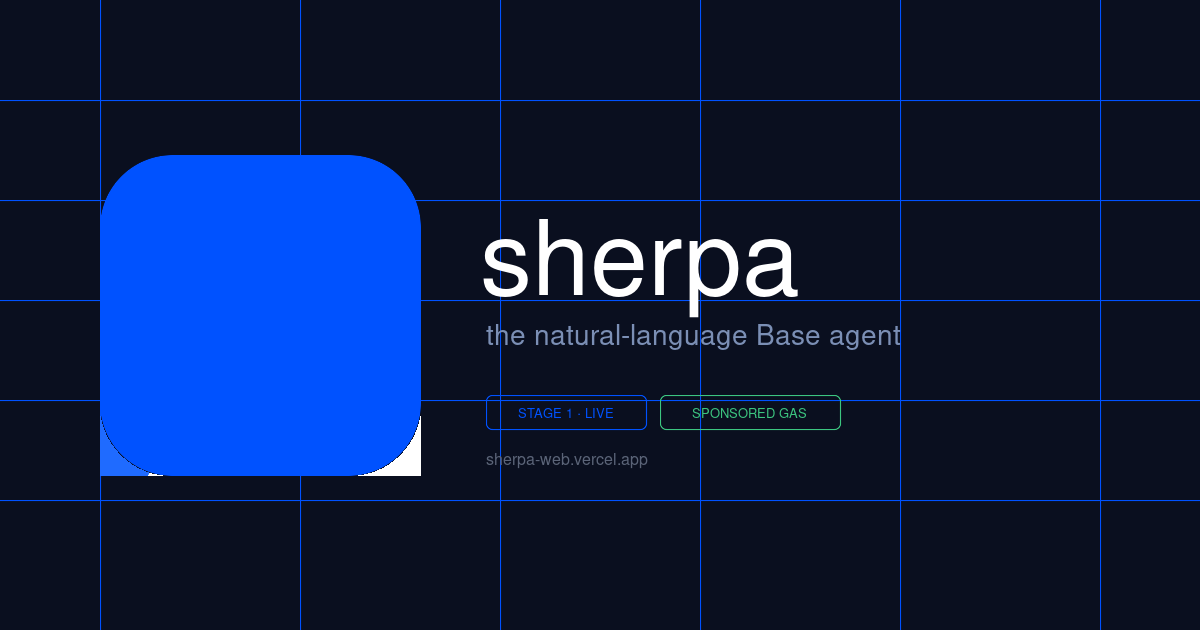
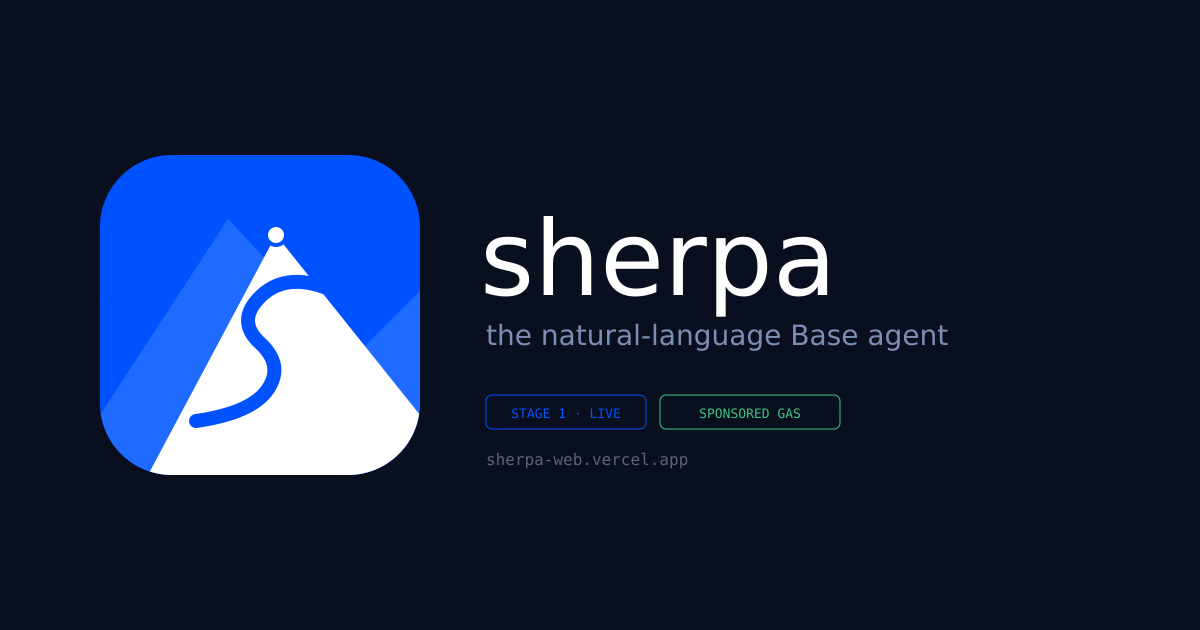
Use official Sherpa brand assets across launch surfaces
Talent and other launch directories scrape the root PNG icon aliases, while the UI was already using the correct SVG mark. Replace the stale placeholder PNGs with the official logo kit, publish the full brand bundle for web and miniapp, and add metadata/category hints for AI agent surfaces.

Constraint: External platforms cache /icon-*.png and /og-image.png rather than the inline app SVGs.

Rejected: Only update the visible app header | Talent and Farcaster would continue to show stale scraped assets.

Confidence: high

Scope-risk: narrow

Directive: Keep icon-192.png, icon-512.png, og-image.png, and splash.png aligned with the official brand kit; those filenames are platform contracts.

Tested: pnpm --filter @sherpa/web typecheck; pnpm --filter @sherpa/miniapp typecheck; pnpm --filter @sherpa/web test -- --run; pnpm --filter @sherpa/miniapp test -- --run; pnpm lint; pnpm --filter @sherpa/web build; pnpm --filter @sherpa/miniapp build

Not-tested: Talent re-scrape timing and category field update in Talent dashboard

diff --git a/apps/miniapp/app/layout.tsx b/apps/miniapp/app/layout.tsx
@@ -7,8 +7,19 @@ export async function generateMetadata(): Promise<Metadata> {
   const baseAppId = process.env.NEXT_PUBLIC_BASE_APP_ID || '6a06efd3067444793fb8ddba';
   return {
     metadataBase: new URL(appUrl),
+    applicationName: 'Sherpa',
     title: 'Sherpa',
     description: 'The natural-language Base agent.',
+    keywords: [
+      'Sherpa',
+      'Base',
+      'AI agent',
+      'onchain agent',
+      'DeFi',
+      'Coinbase Smart Wallet',
+      'sponsored gas',
+    ],
+    category: 'AI Agents',
     icons: {
       icon: [
         { url: '/icon-192.png', sizes: '192x192', type: 'image/png' },

diff --git a/apps/web/app/layout.tsx b/apps/web/app/layout.tsx
@@ -6,8 +6,19 @@ import './globals.css';
 
 export const metadata: Metadata = {
   metadataBase: new URL('https://sherpa-web.vercel.app'),
+  applicationName: 'Sherpa',
   title: 'Sherpa',
   description: 'The natural-language Base agent.',
+  keywords: [
+    'Sherpa',
+    'Base',
+    'AI agent',
+    'onchain agent',
+    'DeFi',
+    'Coinbase Smart Wallet',
+    'sponsored gas',
+  ],
+  category: 'AI Agents',
   manifest: '/manifest.json',
   other: {
     'talentapp:project_verification':

diff --git a/apps/web/public/sw.js b/apps/web/public/sw.js
@@ -1,9 +1,10 @@
-const CACHE_NAME = 'sherpa-v1';
+const CACHE_NAME = 'sherpa-v2';
 const STATIC_ASSETS = [
   '/',
   '/manifest.json',
   '/icon-192.png',
   '/icon-512.png',
+  '/og-image.png',
 ];
 
 self.addEventListener('install', (event) => {

diff --git a/README.md b/README.md
@@ -1,5 +1,9 @@
 # Sherpa
 
+<p align="center">
+  <img src="apps/web/public/sherpa-horizontal-logo.png" alt="Sherpa" width="360" />
+</p>
+
 > The natural-language Base agent.
 
 [![Live](https://img.shields.io/badge/live-Base_Sepolia-blue)](https://sherpa-web.vercel.app)
